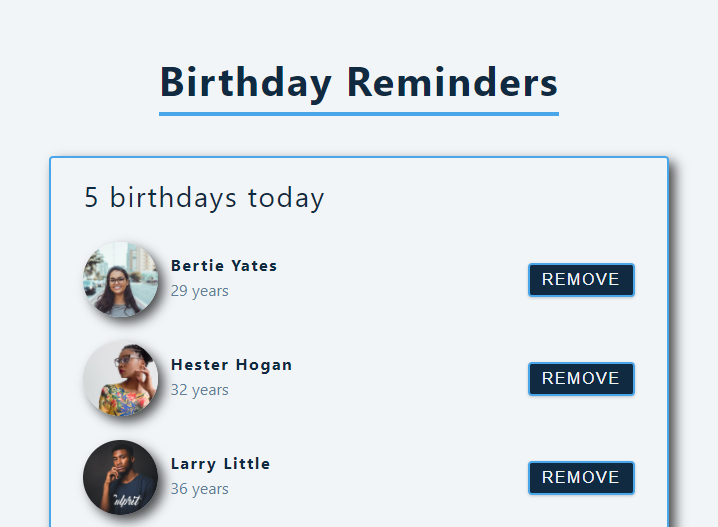
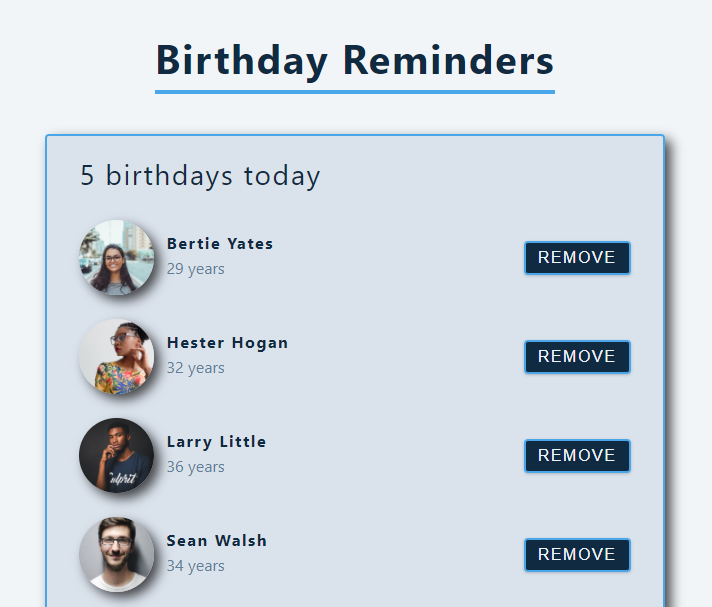
Updating styles and project card

diff --git a/src/pages/BirthdayReminder.jsx b/src/pages/BirthdayReminder.jsx
@@ -21,9 +21,7 @@ const StyledBirthdayReminder = styled.main`
         ? "var(--light-shadow)"
         : "var(--lw-shadow)"};
     background: ${(props) =>
-      props.theme.name === "light"
-        ? "var(--clr-grey-10)"
-        : "var(--clr-grey-1)"};
+      props.theme.name === "light" ? "var(--clr-grey-9)" : "var(--clr-grey-1)"};
     color: ${(props) =>
       props.theme.name === "light"
         ? "var(--clr-grey-1)"
